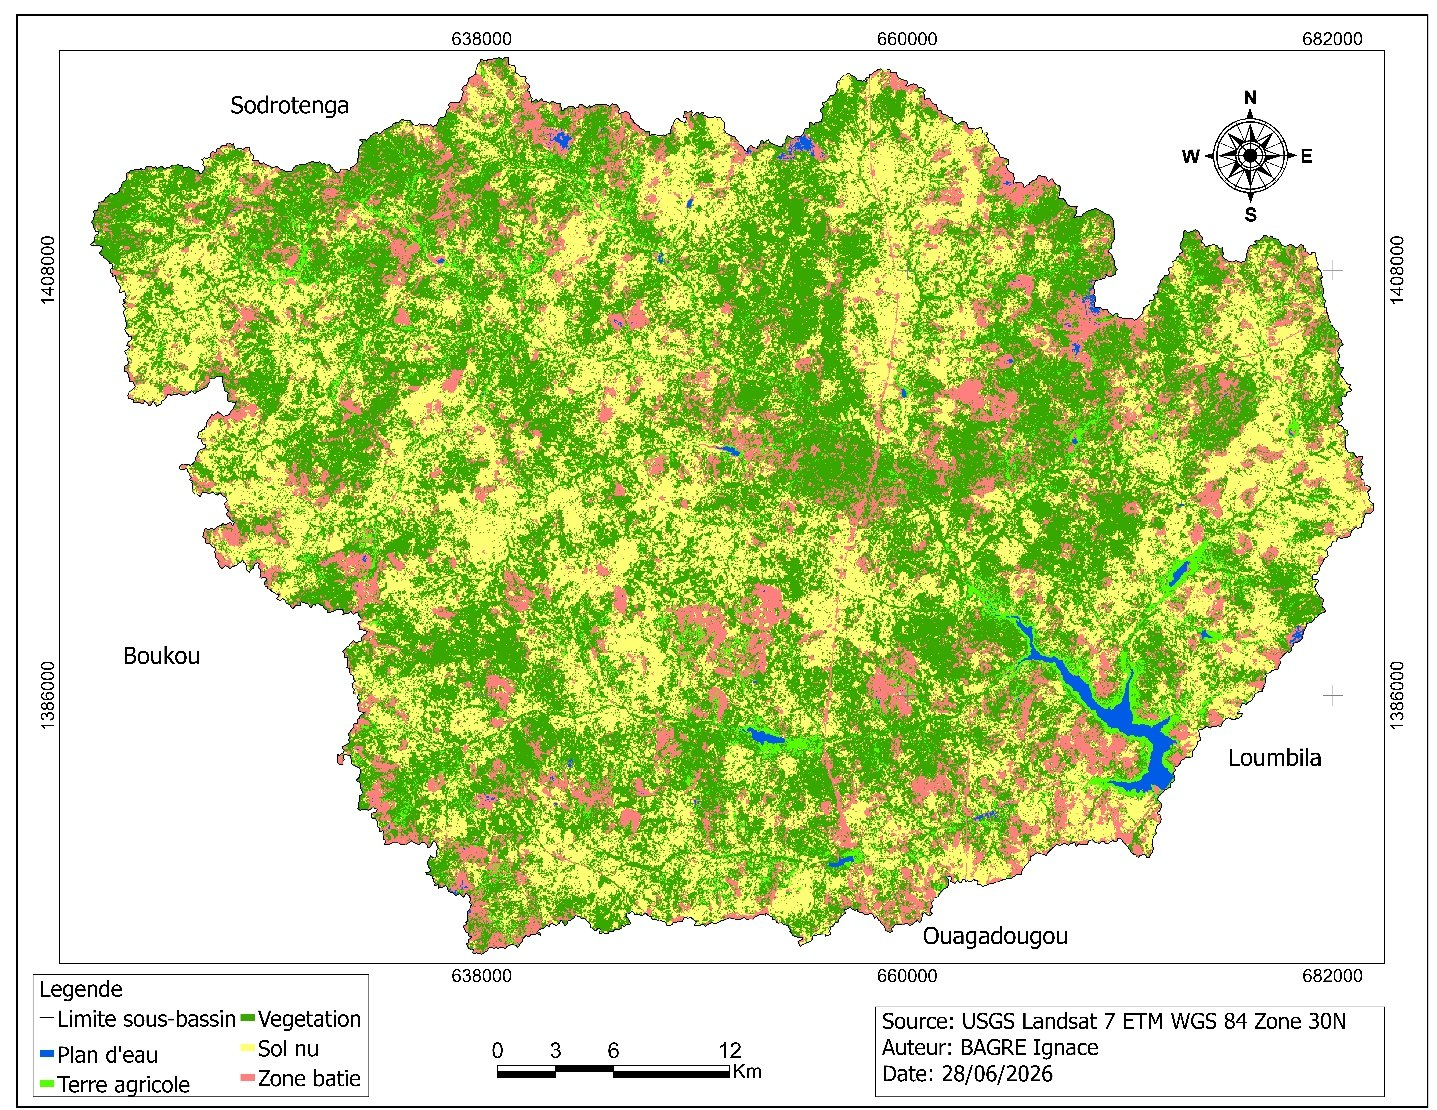
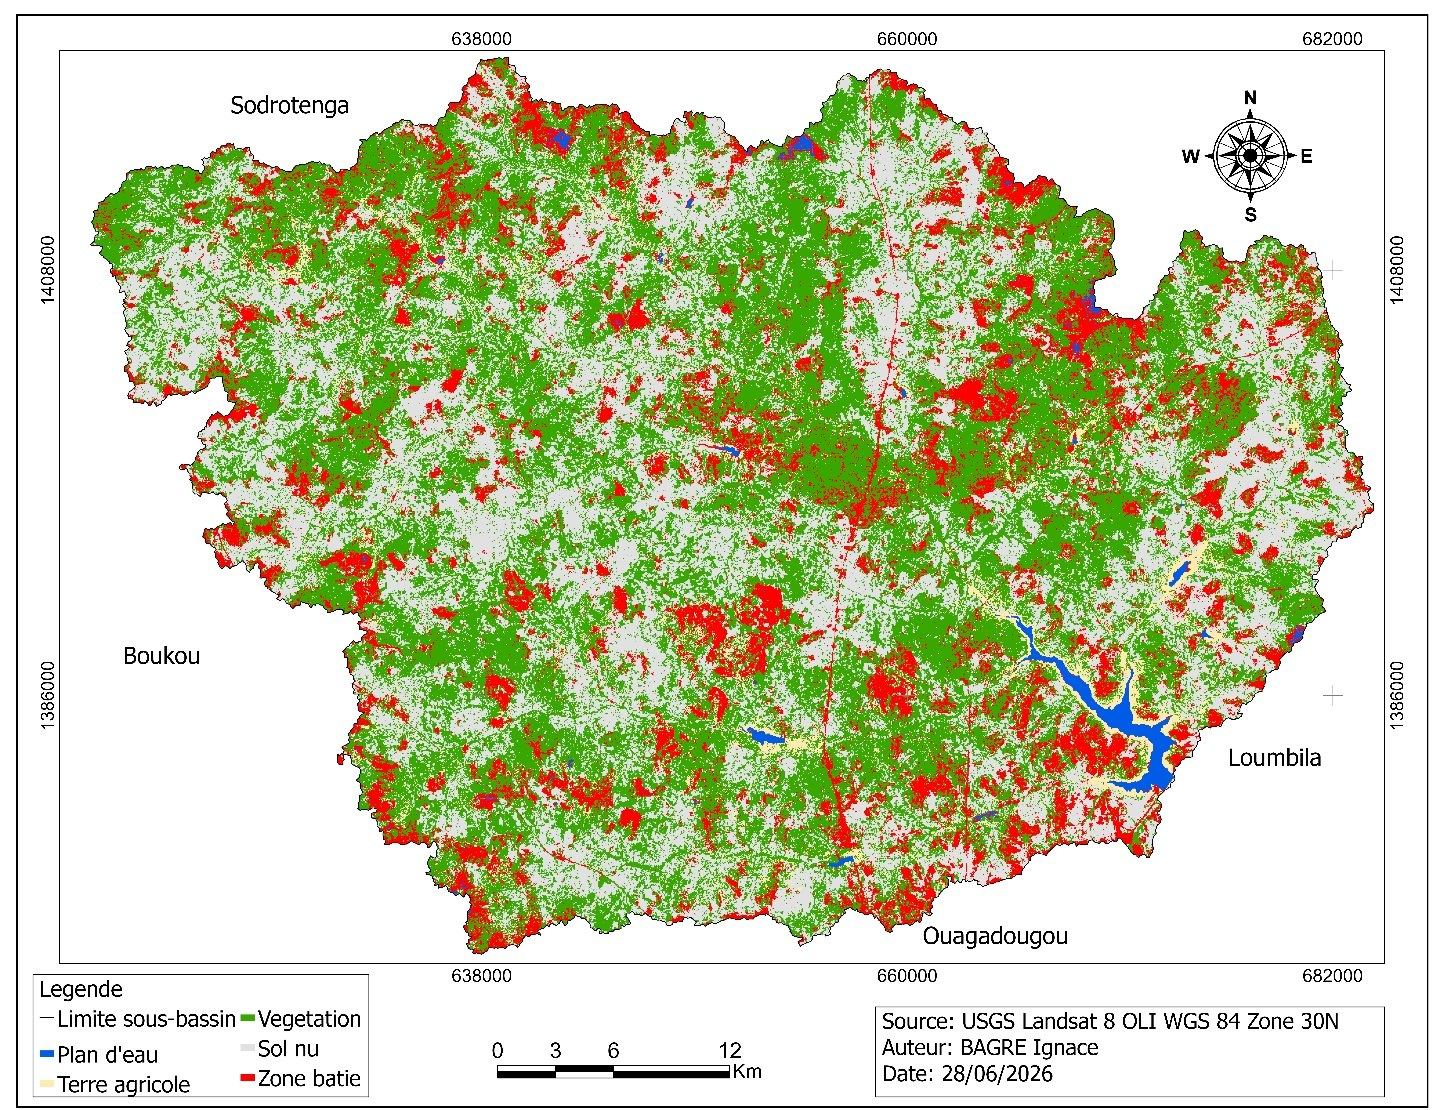
Add files via upload

diff --git a/massili.html b/massili.html
@@ -177,7 +177,7 @@ footer.site-footer{
     <h2 class="block-title">Zone d'étude</h2>
     <p>Le Massili est un sous-bassin versant du bassin de la Volta Blanche (Nakambé), situé dans le Plateau Central du Burkina Faso, entre les latitudes 11°45' et 12°45' Nord et les longitudes 1°15' et 2°15' Ouest, pour une superficie d'environ 2 080 km². Il englobe des portions des provinces du Kadiogo, du Ganzourgou et de l'Oubritenga, ce qui le place sous l'influence directe de l'agglomération de Ouagadougou. Sodrotenga, Boukou et Ziniaré en sont les principaux pôles urbains secondaires.</p>
     <figure>
-      <img src="assets/massili/situation-massili.jpg" alt="Carte de situation géographique du sous-bassin du Massili">
+      <img src="situation-massili.jpg" alt="Carte de situation géographique du sous-bassin du Massili">
       <figcaption>Fig. 1 — Situation géographique du sous-bassin du Massili</figcaption>
     </figure>
   </section>
@@ -229,20 +229,20 @@ footer.site-footer{
     <p>Les zones bâties progressent de 30 449 ha (14,6 % du bassin) en 2000 à 64 415 ha (31,0 %) en 2025, avec une accélération marquée sur 2015-2025. Ce gain s'opère surtout au détriment des sols nus (35,1 % → 16,7 %) et, plus récemment, de la végétation naturelle.</p>
     <div class="fig-grid three">
       <figure>
-        <img src="assets/massili/occupation-sol-2000.jpg" alt="Carte d'occupation du sol du Massili en 2000">
+        <img src="occupation-sol-2000.jpg" alt="Carte d'occupation du sol du Massili en 2000">
         <figcaption>2000 — Bâti 14,6 %</figcaption>
       </figure>
       <figure>
-        <img src="assets/massili/occupation-sol-2015.jpg" alt="Carte d'occupation du sol du Massili en 2015">
+        <img src="occupation-sol-2015.jpg" alt="Carte d'occupation du sol du Massili en 2015">
         <figcaption>2015 — Bâti 20,8 %</figcaption>
       </figure>
       <figure>
-        <img src="assets/massili/occupation-sol-2025.jpg" alt="Carte d'occupation du sol du Massili en 2025">
+        <img src="occupation-sol-2025.jpg" alt="Carte d'occupation du sol du Massili en 2025">
         <figcaption>2025 — Bâti 31,0 %</figcaption>
       </figure>
     </div>
     <figure>
-      <img src="assets/massili/evolution-superficies.jpg" alt="Graphique d'évolution des superficies par classe d'occupation du sol">
+      <img src="evolution-superficies.jpg" alt="Graphique d'évolution des superficies par classe d'occupation du sol">
       <figcaption>Évolution des superficies par classe, 2000–2025</figcaption>
     </figure>
     <table class="mini-table">
@@ -259,7 +259,7 @@ footer.site-footer{
     <h2 class="block-title">Indice de Pression Urbaine</h2>
     <p>Calculé sur une grille de 2 227 cellules d'1 km², l'IPU spatialise l'intensité de l'expansion urbaine. Les valeurs s'étendent de -72,4 % à +99,6 %, avec un arc continu de forte pression dans le secteur sud et sud-est, matérialisant le front d'avancée de Ouagadougou vers Ziniaré.</p>
     <figure>
-      <img src="assets/massili/carte-ipu.jpg" alt="Carte de l'Indice de Pression Urbaine du sous-bassin du Massili">
+      <img src="carte-ipu.jpg" alt="Carte de l'Indice de Pression Urbaine du sous-bassin du Massili">
       <figcaption>Carte de l'Indice de Pression Urbaine (IPU), 2000–2025</figcaption>
     </figure>
     <table class="mini-table">
@@ -277,7 +277,7 @@ footer.site-footer{
     <h2 class="block-title">Corrélations spatiales (Spearman, n = 2 227)</h2>
     <p>Des tests de corrélation de Spearman quantifient la relation entre expansion urbaine et évolution des autres classes, cellule par cellule.</p>
     <figure>
-      <img src="assets/massili/correlations-spearman.jpg" alt="Nuages de points des corrélations de Spearman entre expansion urbaine et occupation du sol">
+      <img src="correlations-spearman.jpg" alt="Nuages de points des corrélations de Spearman entre expansion urbaine et occupation du sol">
       <figcaption>Corrélations entre expansion urbaine et dynamiques d'occupation du sol</figcaption>
     </figure>
     <table class="mini-table">
